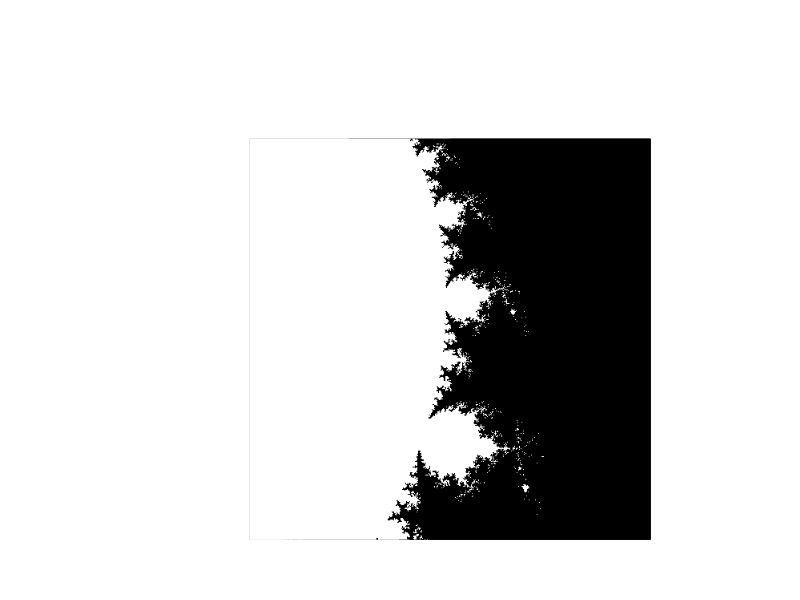
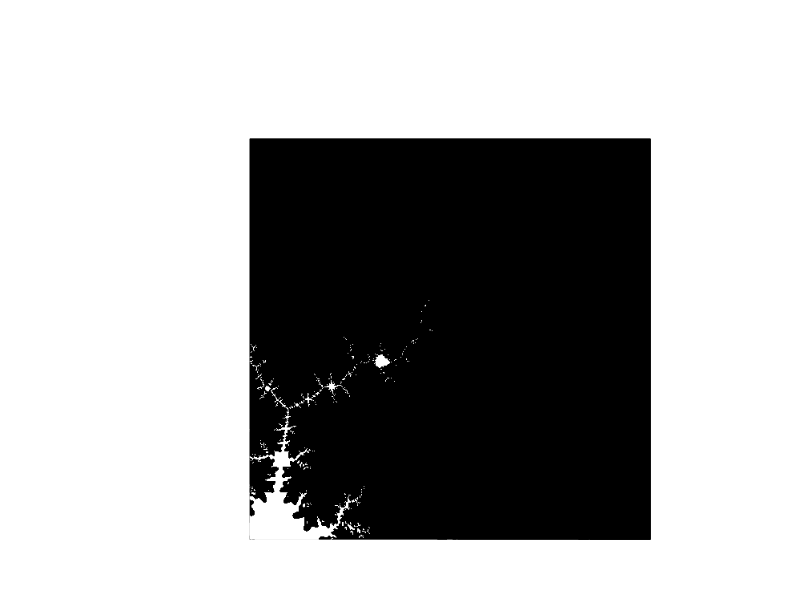
a few tweak

Changed region(s): [[0.3125, 0.21, 0.6562, 0.9]]

diff --git a/mandel_movie.py b/mandel_movie.py
@@ -5,11 +5,14 @@ from matplotlib import cm
 from matplotlib import animation
 import time
 
+# some interesting places in the set
+# http://www.nahee.com/Derbyshire/manguide.html
+
 N = 500
-nIts = 50
-nZooms = 100
-x0=0.38
-y0=0.25
+nIts = 25
+nZooms = 10
+x0=0
+y0=-1
 
 movie = np.zeros([N,N,nZooms])
 
@@ -29,7 +32,7 @@ movie[:,:,0] = mask
 
 # plotting stuff
 for j in range(1,nZooms):
-    h=1./(2*j)
+    h=1./(2**j)
     print "Plot number ", j
     x = x0+h*np.linspace(-1,1,N)
     y = y0+h*np.linspace(-1,1,N)
